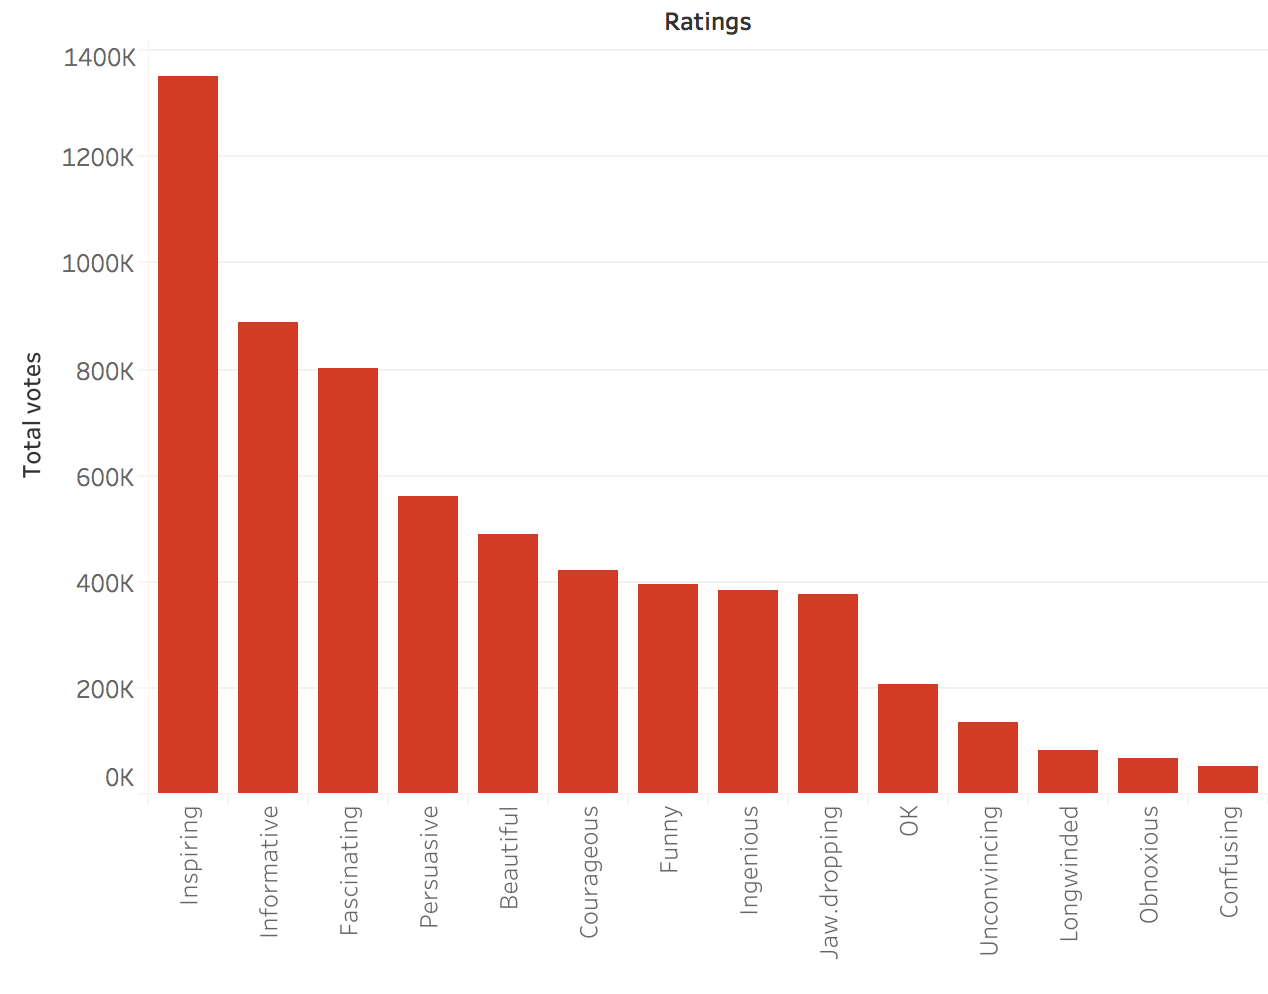
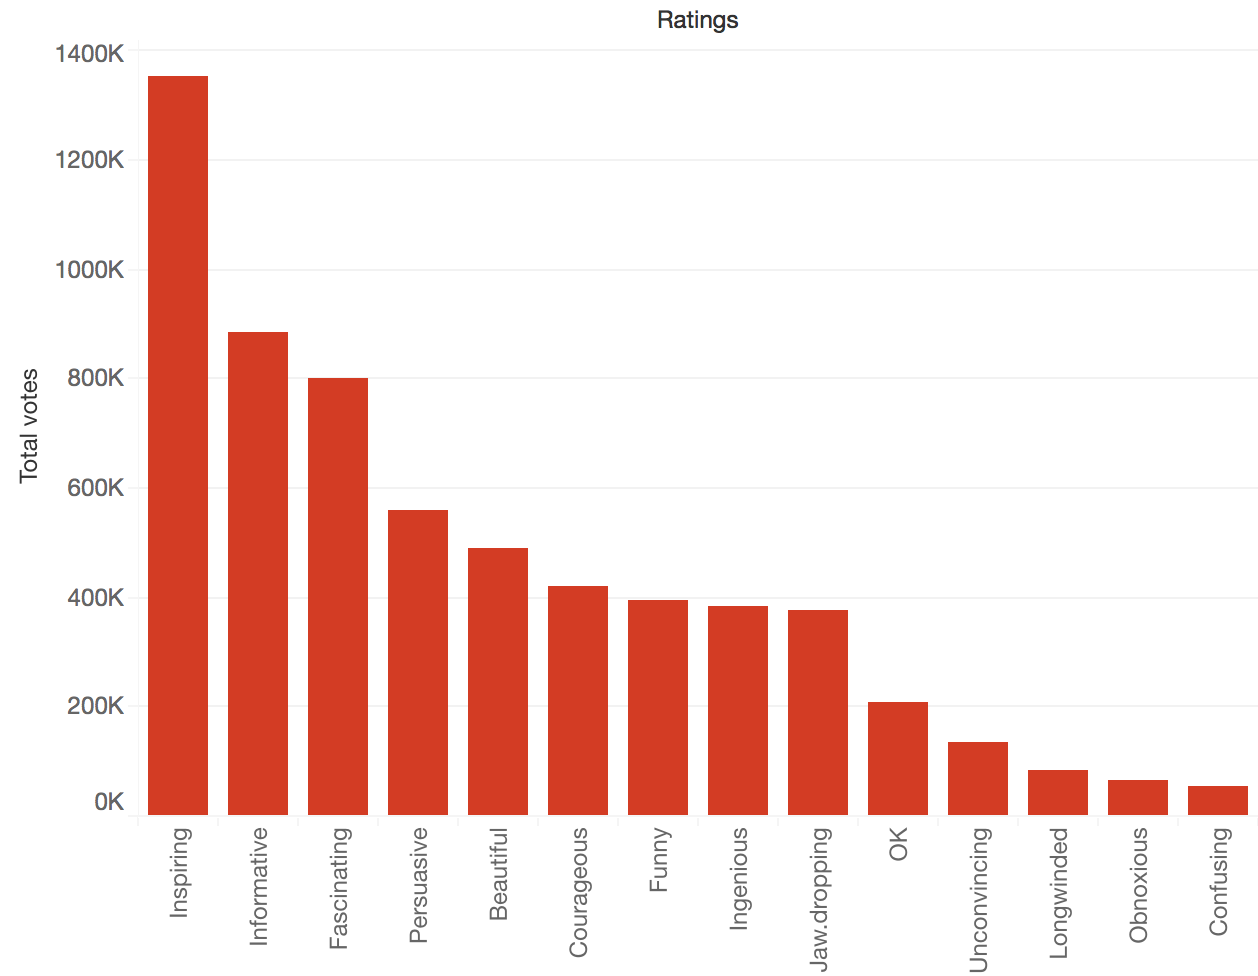
fix small multiples & changed d3 charts colors

Changed region(s): [[0.0, 0.0307, 0.9921, 1.0], [0.527, 0.0, 0.589, 0.0307]]

diff --git a/js/draw.js b/js/draw.js
@@ -1,22 +1,22 @@
-
+var f = d3.format(".1f");
 var data = [];
 var val
 var talk_categories = ["art"];
 var category_colors = {
-  "Beautiful": "#5EB731",
-  "Courageous": "#5EB731",
-  "Fascinating": "#5EB731",
-  "Funny": "#5EB731",
-  "Informative": "#5EB731",
-  "Ingenious": "#5EB731",
-  "Inspiring": "#5EB731",
-  "Jaw.dropping": "rgb(93, 126, 230)",
-  "Persuasive": "#5EB731",
-  "Confusing": "#555555",
-  "Longwinded": "#555555",
-  "Obnoxious": "#555555",
-  "Unconvincing": "#555555",
-  "OK": "rgb(93, 126, 230)"
+  "Beautiful": "#e62b1e",
+  "Courageous": "#e62b1e",
+  "Fascinating": "#e62b1e",
+  "Funny": "#e62b1e",
+  "Informative": "#e62b1e",
+  "Ingenious": "#e62b1e",
+  "Inspiring": "#e62b1e",
+  "Jaw.dropping": "#feac9d",
+  "Persuasive": "#e62b1e",
+  "Confusing":"#888888",
+  "Longwinded": "#888888",
+  "Obnoxious": "#888888",
+  "Unconvincing": "#888888",
+  "OK": "#feac9d"
 }
 
 var rating_names = ["Beautiful", "Confusing", "Courageous", "Fascinating", "Funny", "Informative", "Ingenious", "Inspiring", "Jaw.dropping", "Longwinded", "OK", "Obnoxious", "Persuasive", "Unconvincing"]
@@ -28,6 +28,7 @@ $(document).ready(function() {
   loadData1();
   loadData2();
 });
+
 
 // // Loads the CSV file
 function loadData1() {
@@ -79,12 +80,12 @@ function loadData1() {
 /////data for drawing scatter plot
 function loadData2() {
     d3.csv("data/ted_ratings.csv", function (d) {
-        data = d;
-        data.forEach(function (item) {
+        s_data = d;
+        s_data.forEach(function (item) {
             item.n = parseInt(item.n);
         });
 
-        drawScatterPlot(data);
+        drawScatterPlot(s_data);
     });
 }
 
@@ -185,10 +186,10 @@ function getTopTalks(category, data) {
         .attr("height", function(d) {
           return height - y(d.value);
         })
-        .attr("opacity", "0.6")
+        .attr("opacity", "1")
         .on("mousemove", function(d) {
           $("[id= '" + d.key + "']").addClass("highlight");
-          tooltip
+        tooltip
             .style("left", d3.event.pageX - 80 + "px")
             .style("top", d3.event.pageY - 100 + "px")
             .style("display", "inline-block")
@@ -250,8 +251,8 @@ function setDropdownOptions(data) {
 /////Scatter Plot///////
 function drawScatterPlot(data) {
 
-  // var x="Beautiful";
-  // var y="Confusing";
+  // var xraing=Beautiful;
+  // var yrating=Confusing;
 
   var margin = {top: 20, right: 20, bottom: 30, left: 40},
   width = $("#scatterTransition3").width()  - margin.left - margin.right,
@@ -274,7 +275,7 @@ function drawScatterPlot(data) {
   y.domain([0, d3.max(data, function(d) { return d.Confusing; })]);////////replace here/////////
 
    ///gradient color -> distance 
-  //  var color = d3.scaleSequential(d3.interpolateReds).domain([0,d3.max(data, function(d) { return d.views; })]);
+   var color = d3.scaleSequential(d3.interpolateInferno).domain([0,d3.max(data, function(d) { return d.views; })]);
 
   var tooltip = d3.select("body").append("div").attr("class", "toolTip");
 
@@ -283,8 +284,9 @@ function drawScatterPlot(data) {
       .data(data)
       .enter().append("circle")
       .attr("r", 3)
-      // .attr("fill", function(d,i) { return color(d.views)})
-      .attr("fill", "#e62b1e")
+
+      .attr("fill", function(d) { return color(d.views)})
+      // .attr("fill", "#e62b1e")
       .attr("cx", function(d) { return x(d.Beautiful); })////////replace here/////////
       .attr("cy", function(d) { return y(d.Confusing); })////////replace here/////////
       .attr("opacity", "1")
@@ -293,7 +295,7 @@ function drawScatterPlot(data) {
               tooltip.style("left", d3.event.pageX - 50 + "px")
                   .style("top", d3.event.pageY - 100 + "px")
                   .style("display", "inline-block")
-                  .html("<div><b>" +"Title" + "</b> : " + (d.title) + "</div> " + "<b>" +"Speaker" + "</b> : " + (d.main_speaker));
+                  .html("<div><b>" +"Title" + "</b> : " + (d.title) + "</div> " + "<div><b>" +"Main Speaker" + "</b> : " + (d.main_speaker)+ "</div> " +"<div><b>" + "Views" + "</b> : " + (d.views) + "</div> ");
       })
       .on("mouseout", function (d) {
               d3.select(this).attr("opacity", "1");
@@ -311,7 +313,7 @@ function drawScatterPlot(data) {
      "translate(" + (width/2) + " ," + 
                     (height + margin.top/2 + 20) + ")")
      .style("text-anchor", "middle")
-     .text("Beautiful");
+     .text("Beautiful"); /////replace x here
 
     // Add the y Axis
     svg.append("g")
@@ -324,7 +326,7 @@ function drawScatterPlot(data) {
         .attr("x",0 - (height / 2))
         .attr("dy", "1em")
         .style("text-anchor", "middle")
-        .text("Confusing"); 
+        .text("Confusing"); /////replace y here
 
 
 }
